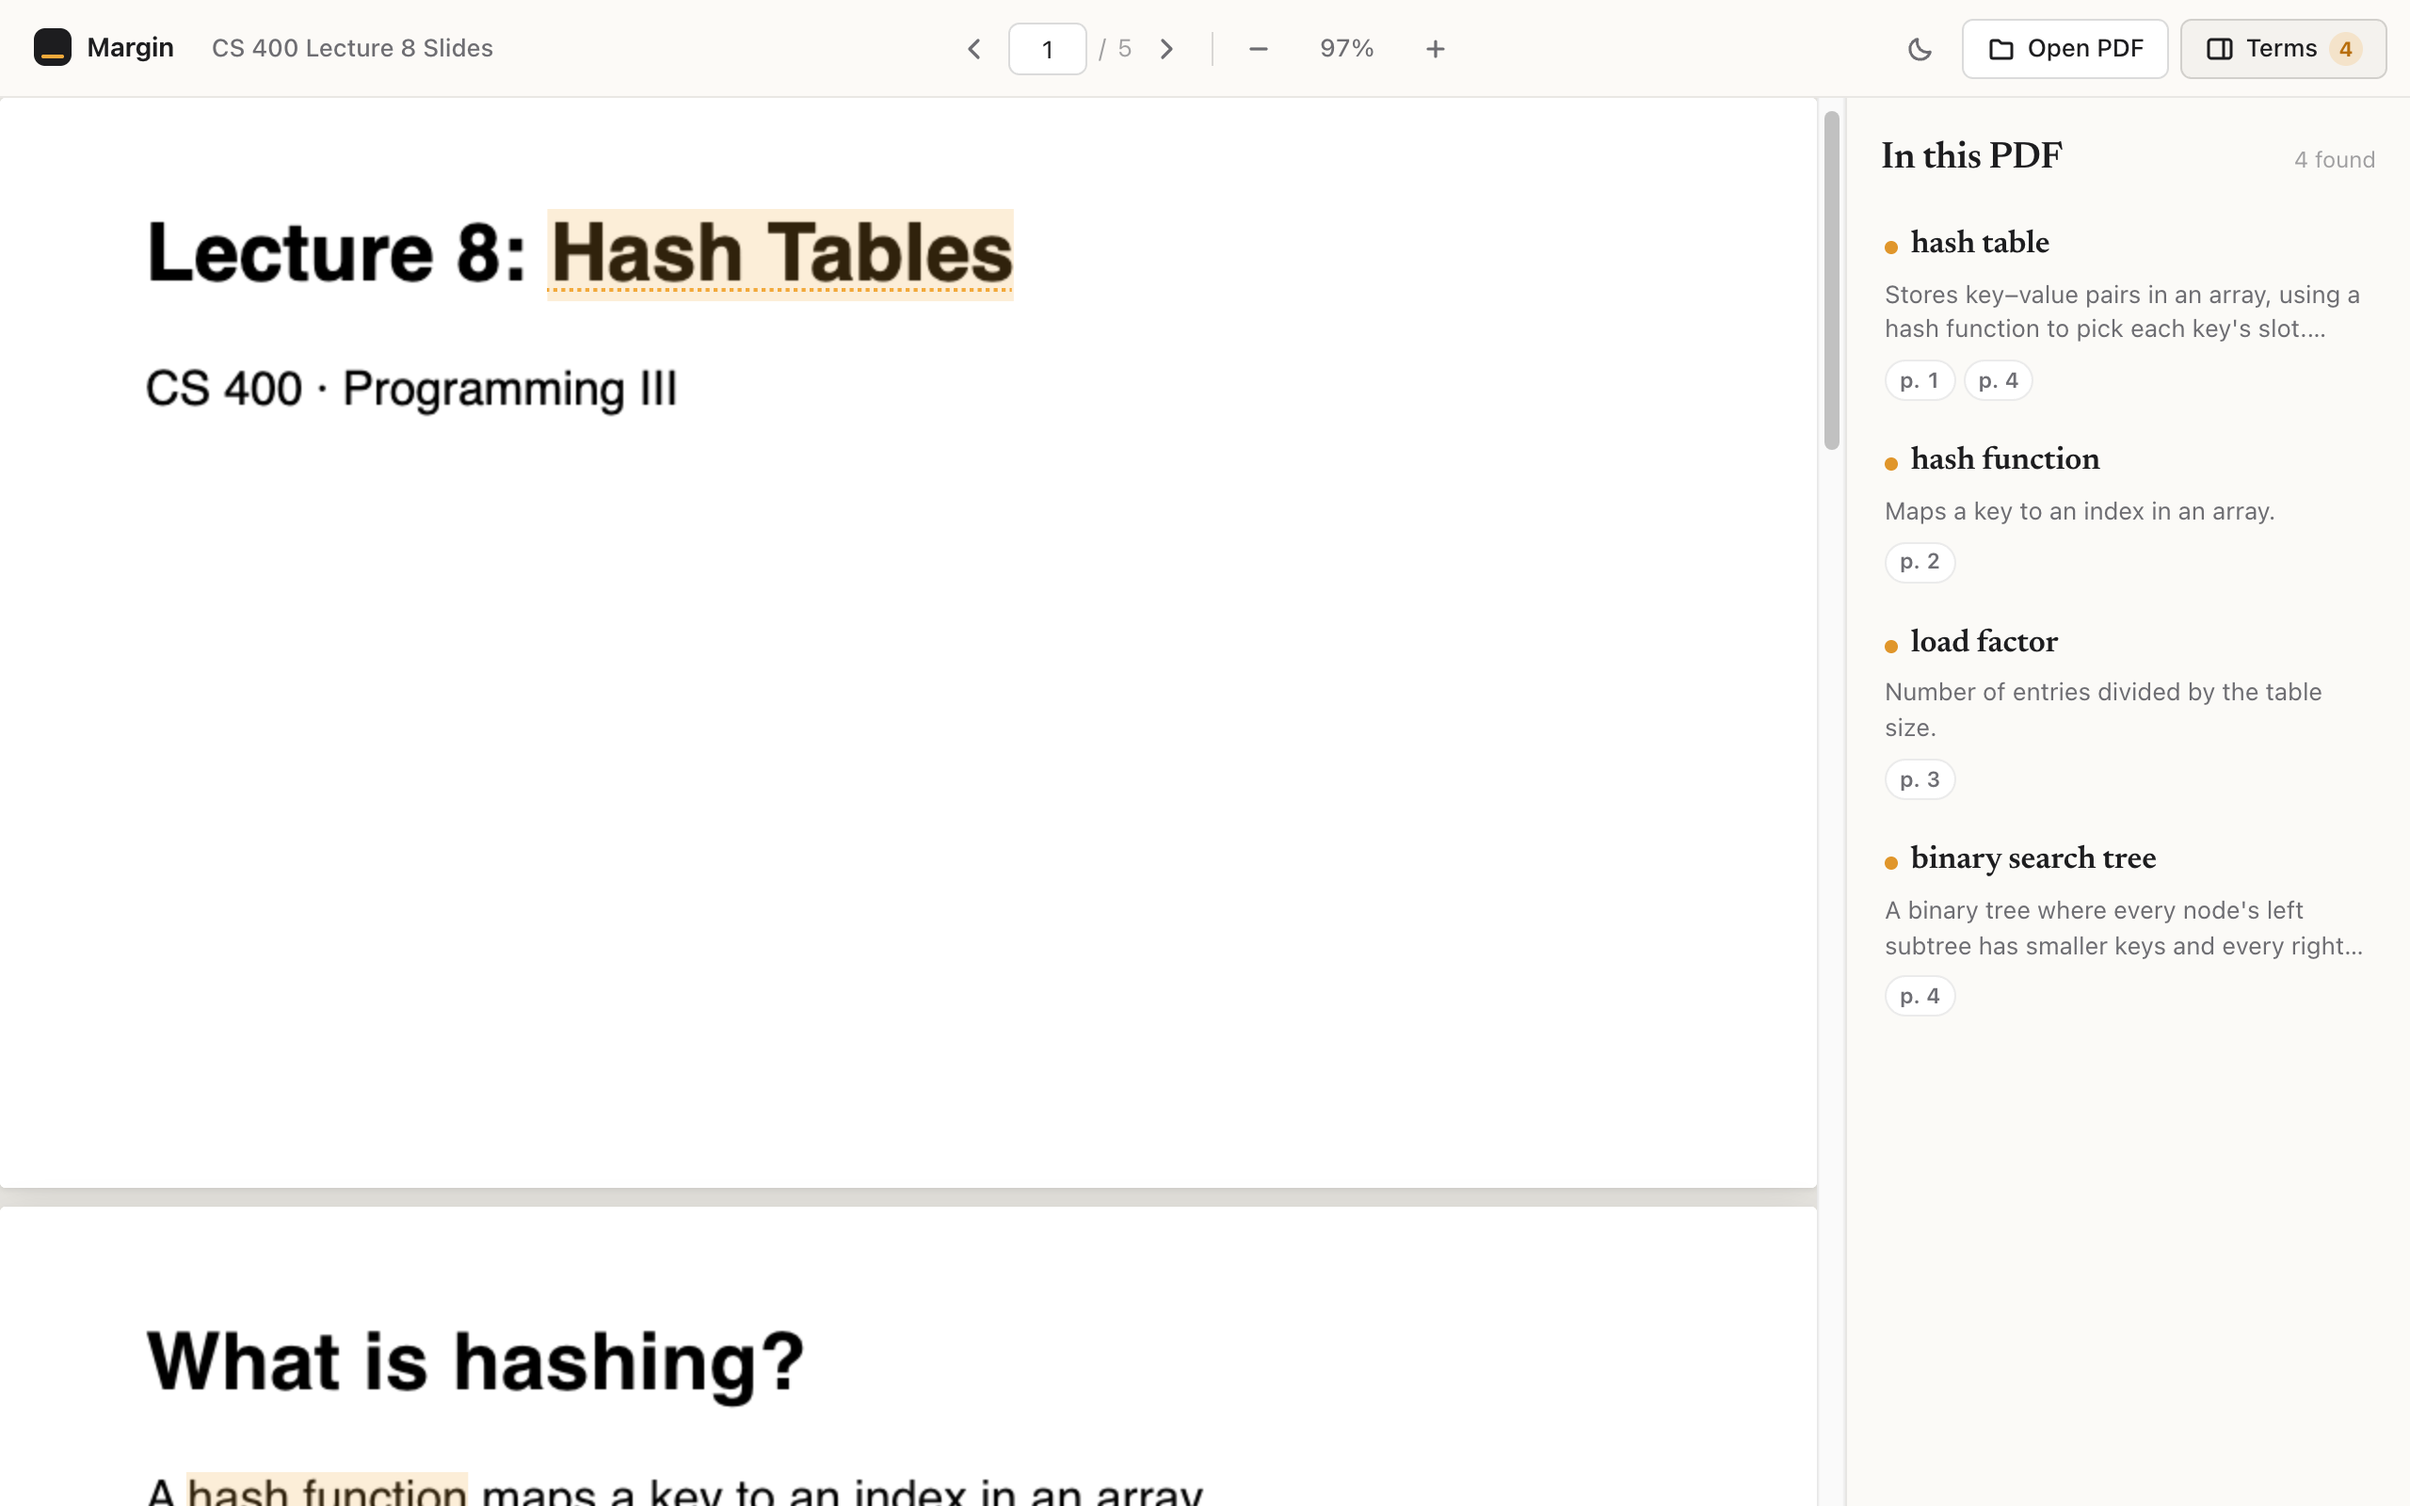
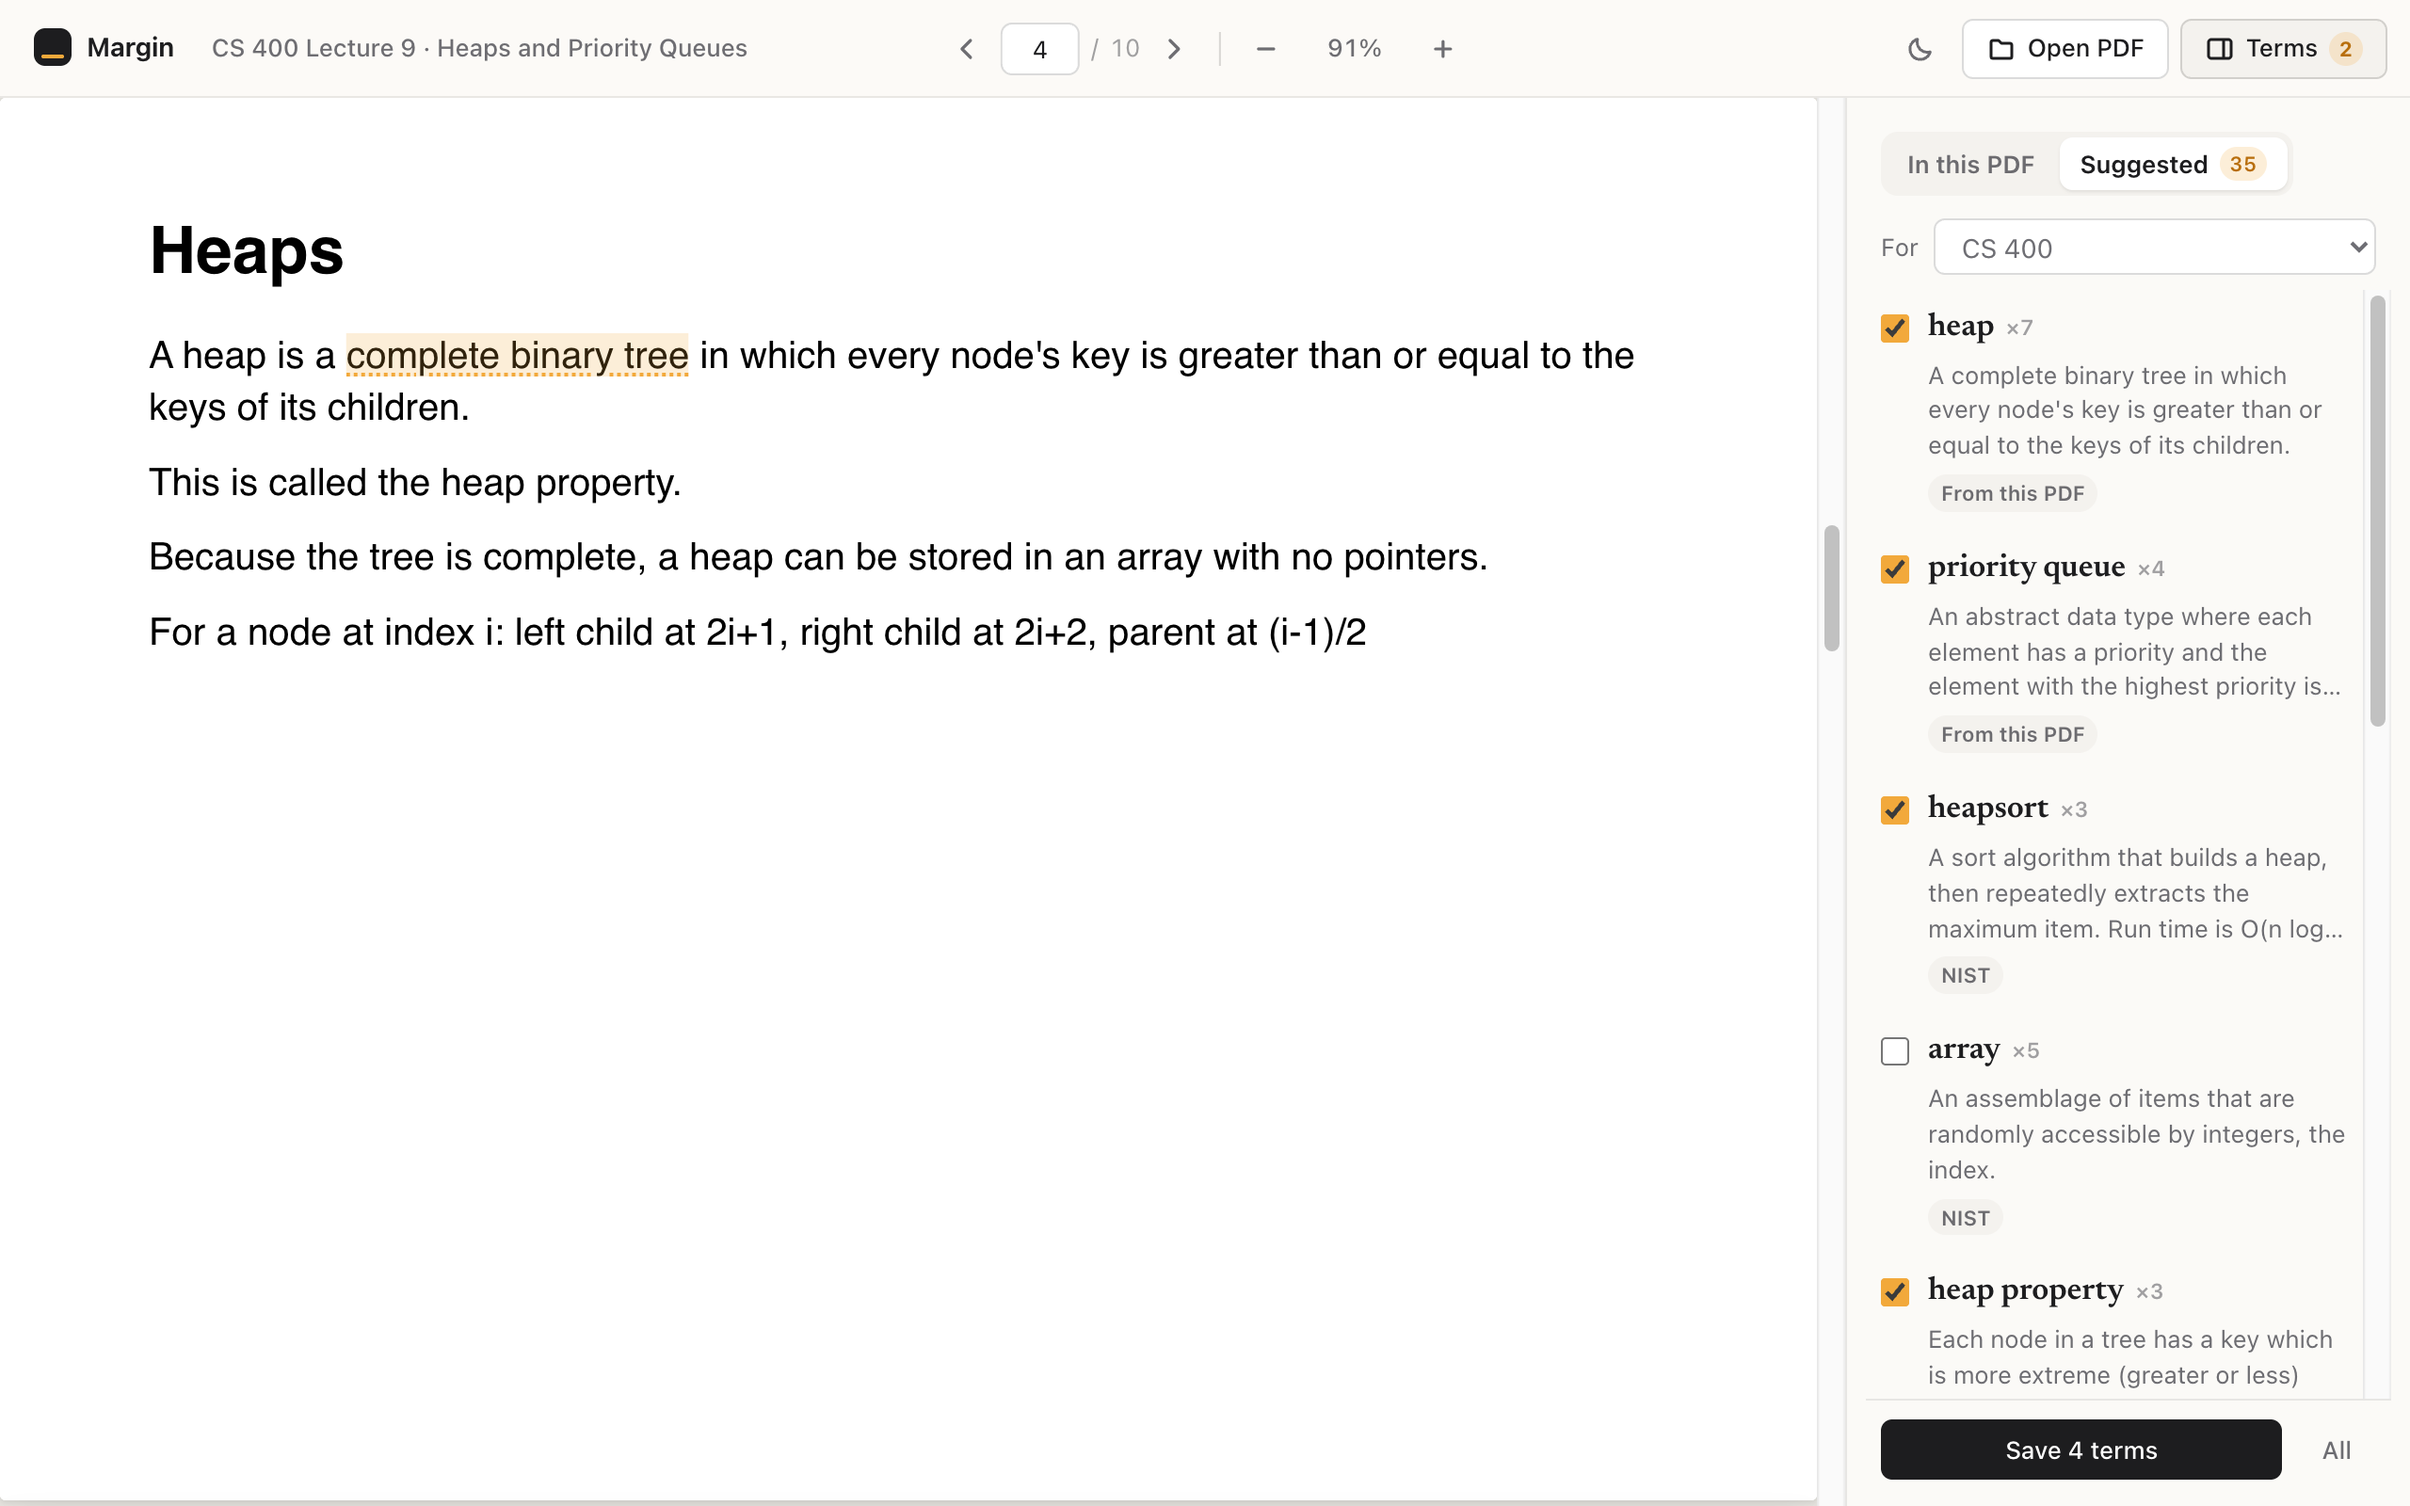
Site: Suggested terms, study-site underlines and updated permissions

diff --git a/site/index.html b/site/index.html
@@ -93,7 +93,7 @@
       </div>
       <div class="step" data-step="3">
         <span class="num">03</span>
-        <h2>See it everywhere.</h2>
+        <h2>See it wherever you study.</h2>
         <p>From then on the term is underlined on Canvas, course pages and every lecture PDF. Hover it and your definition is right there, with the course and where you first saw it. Your email and YouTube stay untouched.</p>
       </div>
     </div>
@@ -177,14 +177,14 @@
   <div class="section-head reveal">
     <p class="eyebrow">PDF viewer</p>
     <h2 class="h2">Built for the PDFs your professors actually post.</h2>
-    <p class="sub">Lecture slides open in Margin's own viewer, with your terms underlined, a list of every term in the file, and dark pages for late nights.</p>
+    <p class="sub">Say yes once and lecture slides open in Margin's own viewer, with your terms underlined, the lecture's key terms picked out for you, and dark pages for late nights.</p>
   </div>
   <div class="pdf-shot" id="pdfShot">
-    <img src="assets/img/pdf-viewer.png" alt="Margin's PDF viewer showing lecture slides with highlighted terms and a Terms in this PDF panel" loading="lazy" width="1280" height="800">
+    <img src="assets/img/pdf-viewer.png" alt="Margin's PDF viewer on a heaps lecture, with a saved term underlined and the Suggested panel listing heap, priority queue and heapsort with their definitions" loading="lazy" width="1280" height="800">
   </div>
   <div class="trio">
-    <div class="reveal"><h3>Every term in the file</h3><p>A side panel lists the terms you've saved that appear in this PDF, with links to each page.</p></div>
-    <div class="reveal"><h3>Back to the exact page</h3><p>Every saved term remembers its source, so one click takes you back to slide 14.</p></div>
+    <div class="reveal"><h3>Key terms, found for you</h3><p>Margin reads the lecture and suggests its key terms, with definitions from your professor's slides or the course textbook. Save five in one click.</p></div>
+    <div class="reveal"><h3>Back to the exact page</h3><p>A side panel lists your saved terms in the file with links to each page, and every term remembers the slide you found it on.</p></div>
     <div class="reveal"><h3>Web or local</h3><p>Works on PDFs from course sites and on the ones sitting in your Downloads folder.</p></div>
   </div>
 </section>

diff --git a/site/privacy.html b/site/privacy.html
@@ -54,14 +54,15 @@
 </table></div>
 <p>Nothing else is sent: not the page you are on, its text, your course names, your glossary or any identifier. Answers are cached on your computer. Textbook (OpenStax) and computer science (NIST) definitions are built into the extension and need no connection. If you only use <b>Write my own</b>, Margin makes no network requests at all.</p>
 <p>When you open a web PDF, Margin's viewer downloads it from its original address, the same way Chrome's built-in viewer would.</p>
+<p><b>Suggested terms</b> in the PDF viewer are found on your computer, by comparing the PDF's text with glossaries and word lists built into Margin. The PDF's text is never sent anywhere, and there's no AI service involved.</p>
 
 <h2>Permissions</h2>
 <div class="wrap-table"><table>
 <tr><th>Permission</th><th>Why Margin needs it</th></tr>
 <tr><td>Storage</td><td>To keep your glossary on your computer, without a size cap for big courses.</td></tr>
-<tr><td>Access to websites</td><td>To underline your saved terms on the pages you read, and to fetch definitions for Find one.</td></tr>
+<tr><td>Access to websites</td><td>To underline your saved terms on school and learning sites (and any site you turn on), to save a term from any page, and to fetch definitions for Find one. On other sites Margin stays inactive by default.</td></tr>
 <tr><td>Context menus</td><td>For the right-click “Save to Margin” option.</td></tr>
-<tr><td>Web requests and navigation</td><td>To notice when a tab opens a PDF, so it can open in Margin's viewer. You can turn this off in Settings.</td></tr>
+<tr><td>Web requests</td><td>To notice when a tab opens a PDF, so it can open in Margin's viewer. Only used after you turn on <b>Open PDFs in Margin</b>.</td></tr>
 </table></div>
 
 <h2>No tracking</h2>

diff --git a/README.md b/README.md
@@ -64,7 +64,7 @@ Every term lives in a searchable glossary, organized by course. Quiz yourself fr
 </td>
 </tr>
 <tr>
-<td><img src=".github/media/pdf-viewer.png" alt="Margin's PDF viewer with highlighted terms and a Terms in this PDF panel"></td>
+<td><img src=".github/media/pdf-viewer.png" alt="Margin's PDF viewer with a saved term underlined and the Suggested panel listing the lecture's key terms"></td>
 <td><img src=".github/media/quiz.png" alt="Quiz card asking for the term that matches a definition"></td>
 </tr>
 </table>
